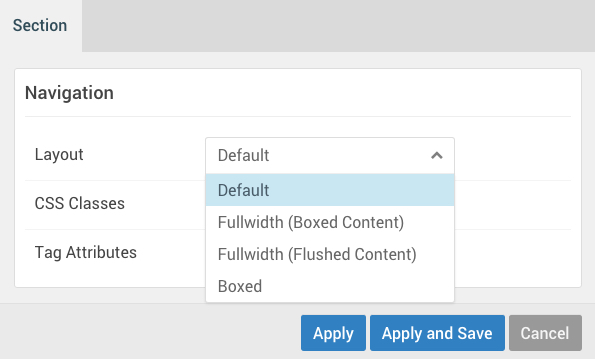
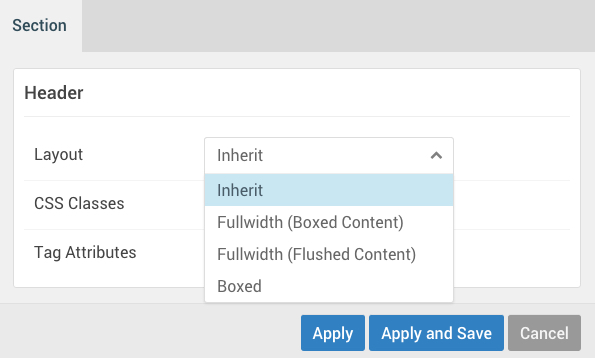
Updated Layout Default to Inherit

diff --git a/pages/01.gantry5/02.configure/04.page-settings/docs.md b/pages/01.gantry5/02.configure/04.page-settings/docs.md
@@ -92,7 +92,7 @@ And this is a visual representation of all three cases
 
 These styles allow users to customize the whole site or individual Sections to accommodate specific needs. The most common case scenario, for instance, is wanting a section to be fully flushed so that an image or background can be added to it making it flush to the edges.
 
-To change the behavior of individual Sections, head to the Layout Manager panel and click the gear action icon of the desired section. You will then be able to pick a different value for the **Layout** field. **Default** will tell Gantry that it should be using the Setting from the **Page Settings** panel.
+To change the behavior of individual Sections, head to the Layout Manager panel and click the gear action icon of the desired section. You will then be able to pick a different value for the **Layout** field. **Inherit** will tell Gantry that it should be using the Setting from the **Page Settings** panel.
 
 ![Layout Section Settings](section-layout.jpg) {.border .shadow}
 
